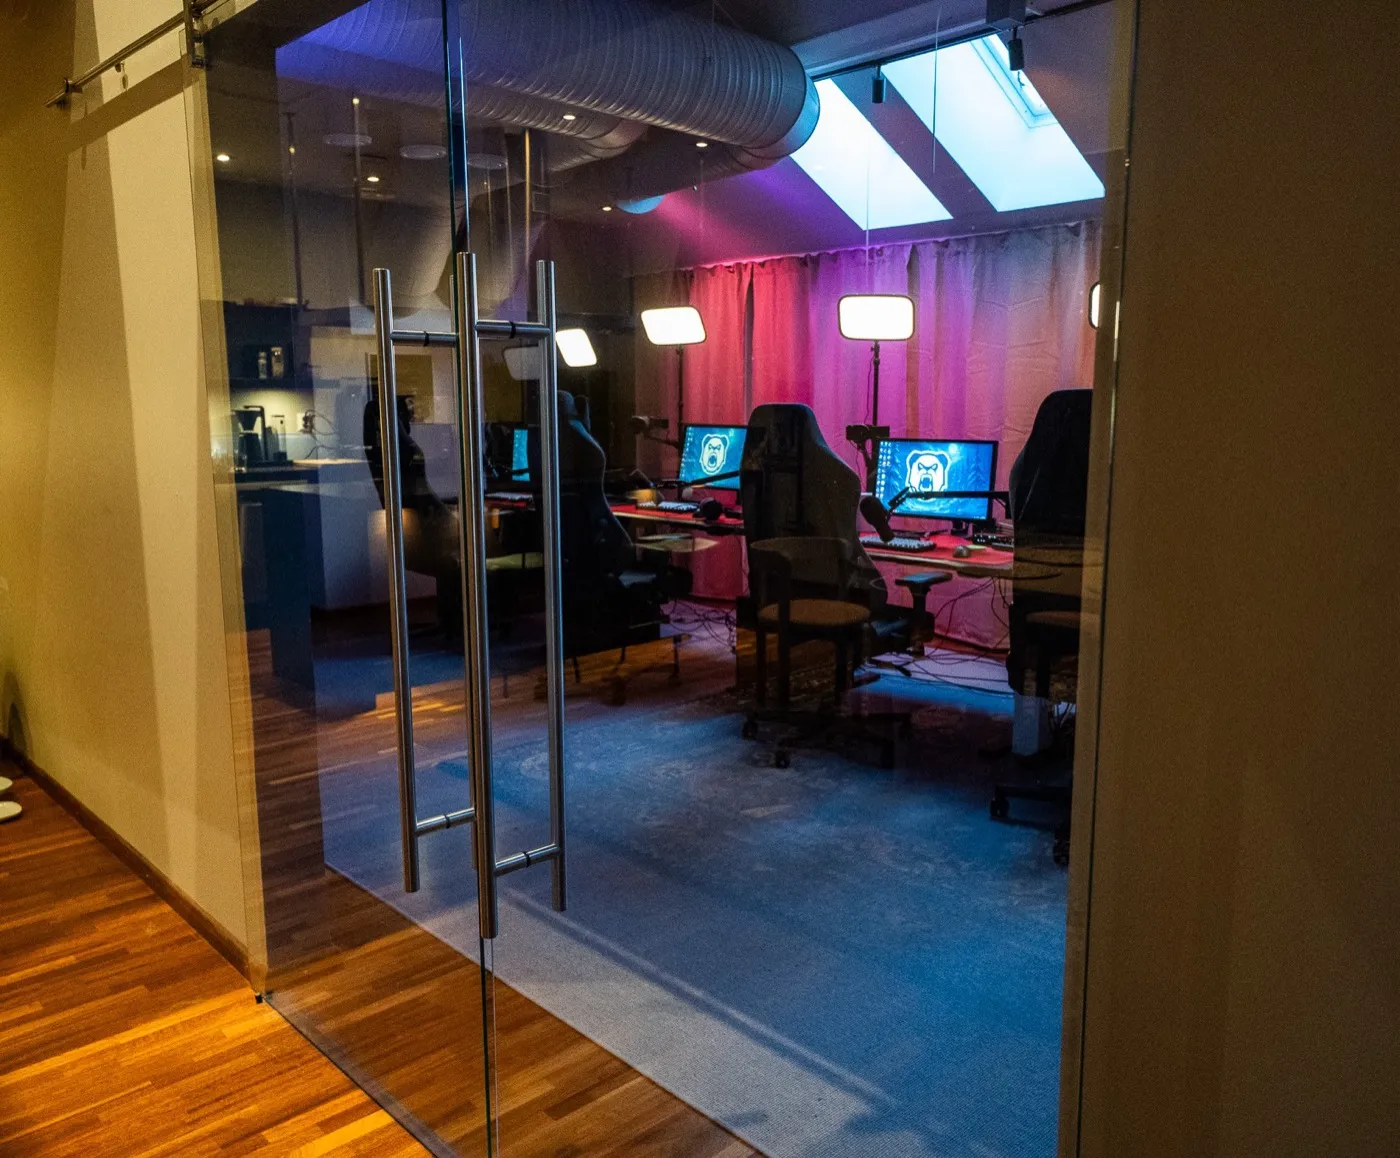
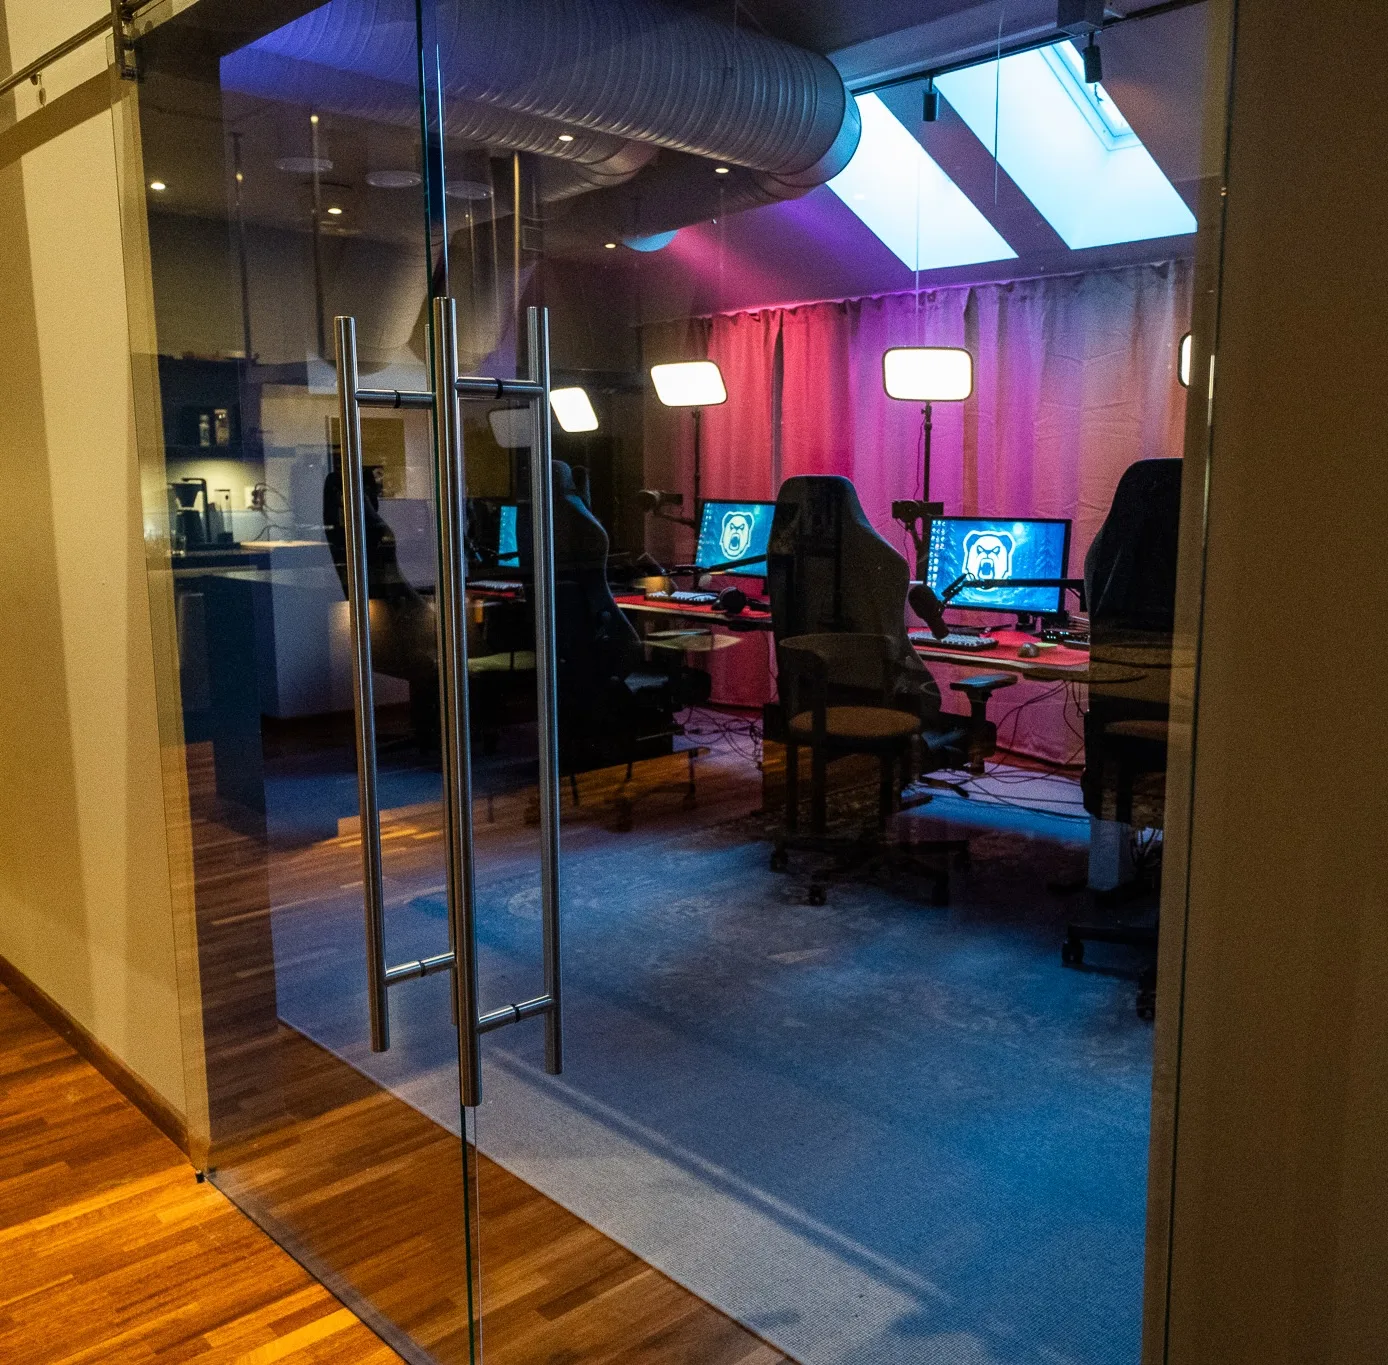
fix: update facility images and normalize heights
- Re-cropped studio images per user specifications
- Set fixed 400px height with object-fit: cover for uniform display
- Update grid proportions for new aspect ratios

diff --git a/src/app/(standalone)/for-partners/Deck.module.css b/src/app/(standalone)/for-partners/Deck.module.css
@@ -504,9 +504,9 @@
 
 .facilityGrid {
   display: grid;
-  grid-template-columns: 1.4fr 0.8fr 1fr;
+  grid-template-columns: 1.5fr 0.85fr 1fr;
   gap: 1rem;
-  align-items: start;
+  align-items: stretch;
 }
 
 .facilityImage {
@@ -514,11 +514,13 @@
   border-radius: 12px;
   overflow: hidden;
   background: var(--bg-dark);
+  height: 400px;
 }
 
 .facilityImg {
   width: 100%;
-  height: auto;
+  height: 100%;
+  object-fit: cover;
   display: block;
   transition: transform 0.3s ease;
 }
@@ -547,8 +549,12 @@
     gap: 1rem;
   }
 
+  .facilityImage {
+    height: 250px;
+  }
+
   .facilityImage:nth-child(2) {
-    max-width: 300px;
+    height: 300px;
   }
 }
 
